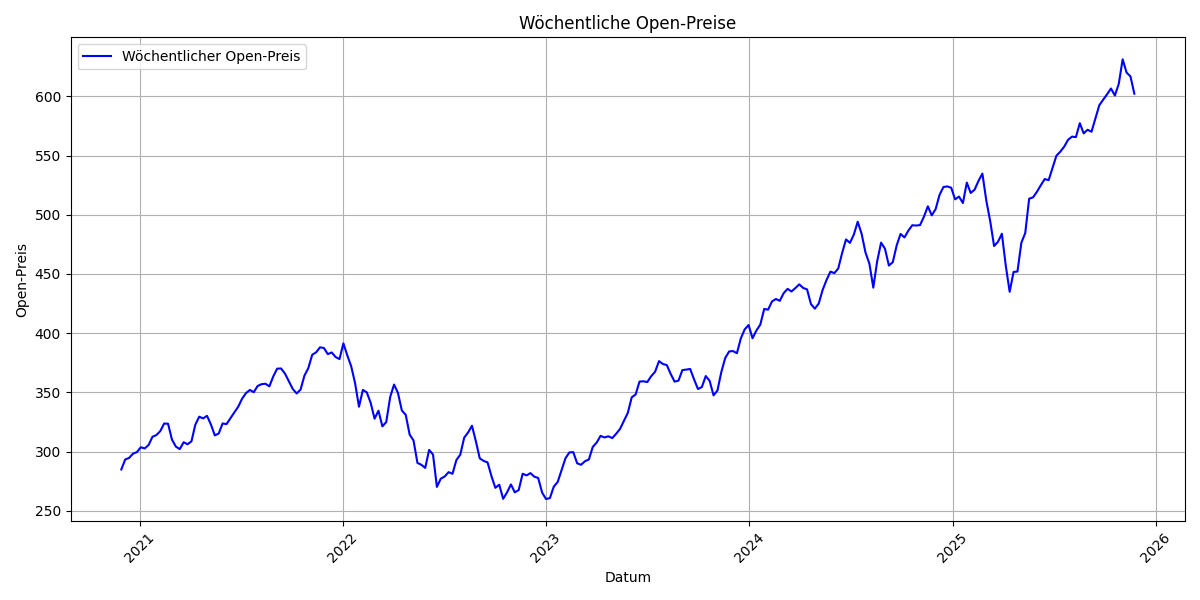
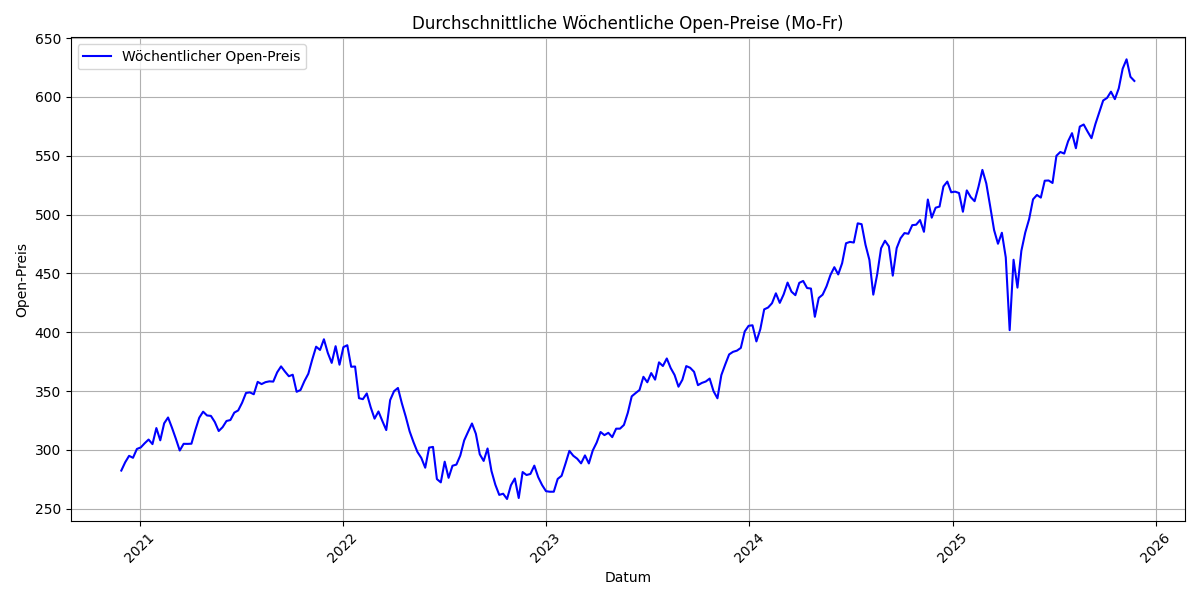
Added Tradingvolume over time plot

diff --git a/nasdaq_trading_bot/scripts/02_data_understanding/understanding_nasdaq_index.py b/nasdaq_trading_bot/scripts/02_data_understanding/understanding_nasdaq_index.py
@@ -70,7 +70,7 @@ print(data.isnull().sum())
 plt.hist(data["open"],bins=30, color="blue",edgecolor="black")
 plt.title("Verteilung der Open-Preise")
 plt.xlabel("Preis in USD")
-plt.ylabel("Anzahl der Tage")
+plt.ylabel("Anzahl der Datensätze")
 plt.savefig(f"{images_dir}/02_Verteilung_analysieren.png")
 
 
@@ -79,14 +79,16 @@ line_chart_df = data[['timestamp', 'open']].copy()
 line_chart_df['timestamp'] = pd.to_datetime(line_chart_df['timestamp'])
 line_chart_df.set_index('timestamp', inplace=True)
 
+# Optional: Wochenenden raus
+line_chart_df = line_chart_df[line_chart_df.index.dayofweek < 5]
 
-line_chart_df_weekly = line_chart_df['open'].resample('W').mean()
+line_chart_df_weekly = line_chart_df['open'].resample('W').first()
 
 weekly_returns = line_chart_df_weekly.pct_change().dropna()
 
 plt.figure(figsize=(12,6))
 plt.plot(line_chart_df_weekly.index, line_chart_df_weekly.values, label='Wöchentlicher Open-Preis', color='blue')
-plt.title("Wöchentliche Open-Preise")
+plt.title("Durchschnittliche Wöchentliche Open-Preise (Mo-Fr)")
 plt.xlabel("Datum")
 plt.ylabel("Open-Preis")
 plt.grid(True)
@@ -128,6 +130,20 @@ plt.xticks(rotation=45)
 plt.tight_layout()
 plt.savefig(f"{images_dir}/02_moving_average.png")
 
+
+data['timestamp'] = pd.to_datetime(data['timestamp'])
+data = data.set_index('timestamp')
+
+
+plt.figure(figsize=(12,4))
+plt.plot(data.index, data['volume'])
+plt.title("Handelsvolumen über die Zeit")
+plt.xlabel("Zeit in Tagen")
+plt.ylabel("Volumen in Mio. Shares")
+plt.grid(True)
+plt.savefig(f"{images_dir}/02_volume_over_time.png")
+# Zeigt Phasen mit ungewöhlichem hohem/geringem Volumen
+# Relevant für spätere Volumen features
 
 
 
